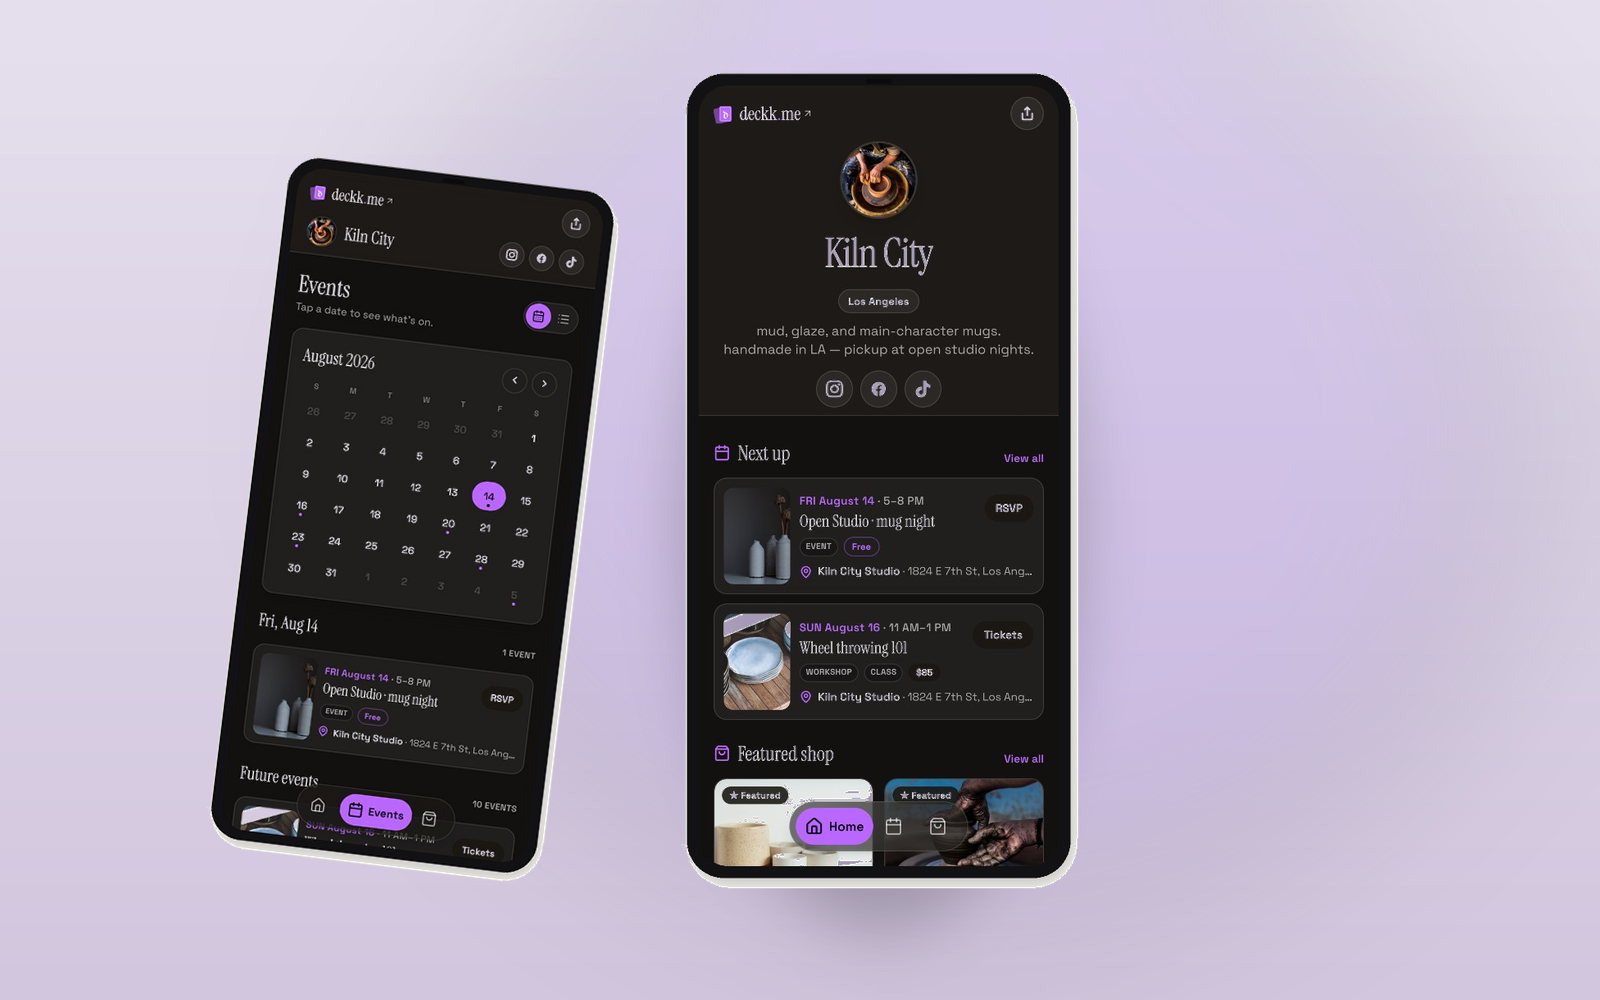
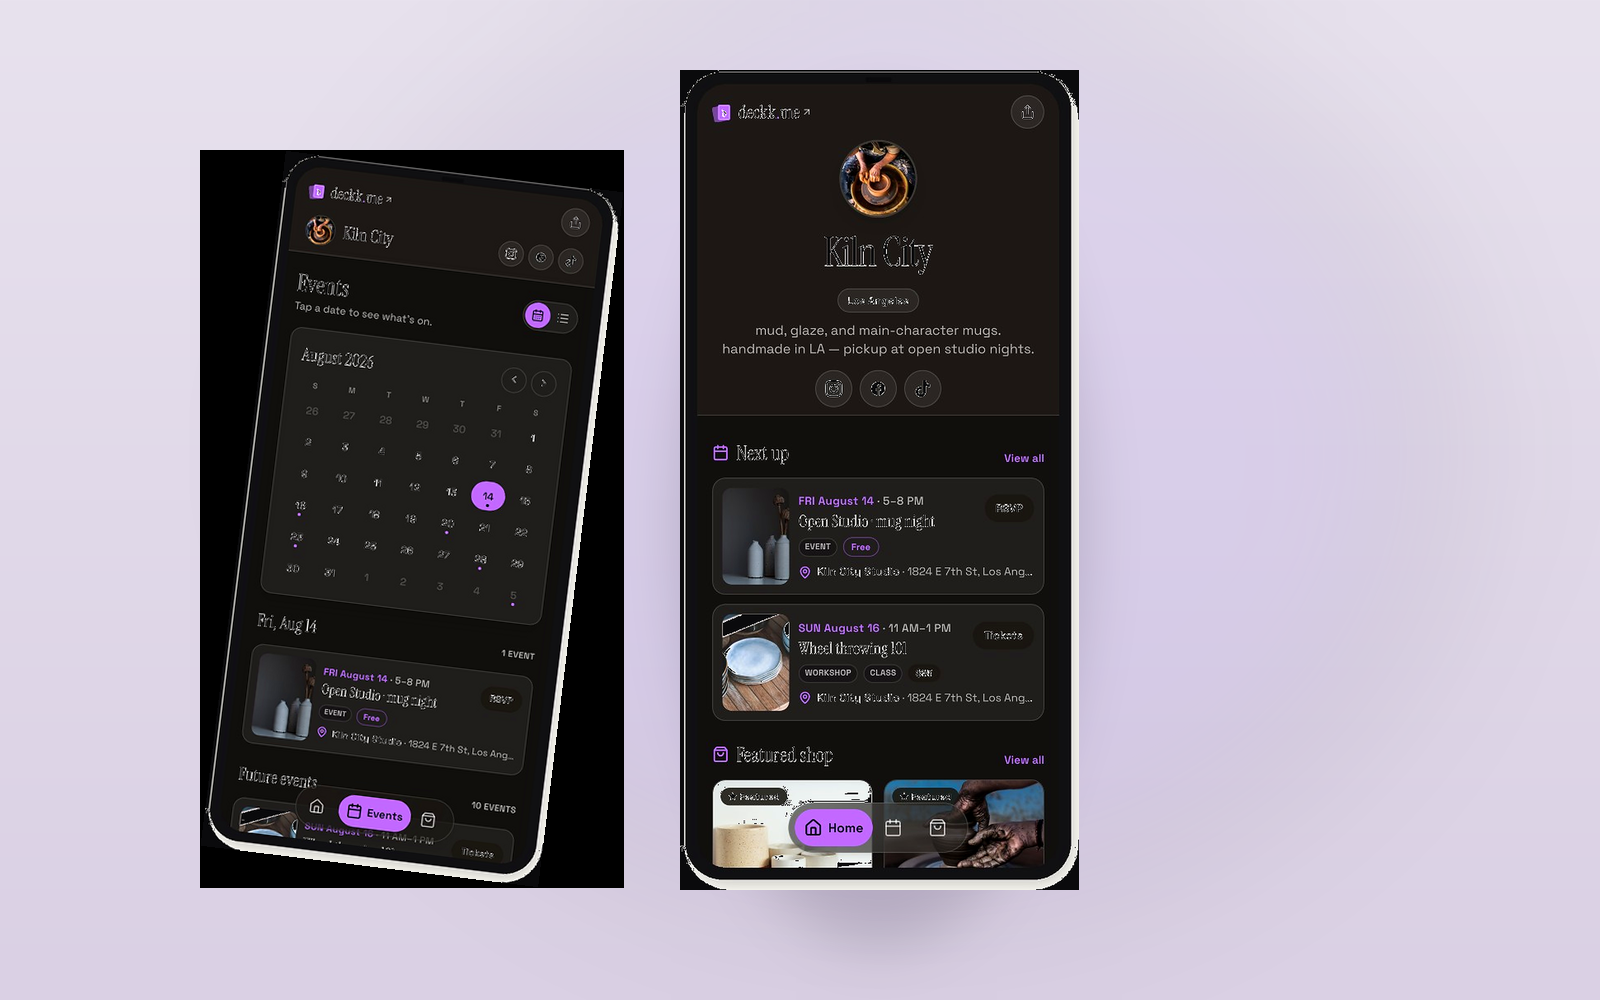
Sharpen Deckk device shots and stop CSS from softening them.
Upscale crops for retina, light unsharp, drop filter-based shadows, and freeze full opacity on hero phones.

diff --git a/case-study-deckk.html b/case-study-deckk.html
@@ -13,7 +13,7 @@
   <link rel="preconnect" href="https://fonts.gstatic.com" crossorigin>
   <link href="https://fonts.googleapis.com/css2?family=Instrument+Sans:ital,wght@0,400;0,500;0,600;0,700;1,400&family=IBM+Plex+Mono:wght@400;500&display=swap" rel="stylesheet">
   <link rel="stylesheet" href="ui-system.css?v=2">
-  <link rel="stylesheet" href="case-study.css?v=51">
+  <link rel="stylesheet" href="case-study.css?v=52">
 </head>
 <body class="case-study-body" data-cs-open="true">
 
@@ -91,10 +91,10 @@
             <div class="deckk-hero-showcase__glow" aria-hidden="true"></div>
             <div class="deckk-hero-showcase__stage">
               <figure class="deckk-hero-phone deckk-hero-phone--back">
-                <img src="deckk-kilncity-events.png?v=2" alt="Kiln City Events calendar on Deckk — August 2026 with Open Studio selected" width="513" height="1024" decoding="async">
+                <img src="deckk-kilncity-events.png?v=3" alt="Kiln City Events calendar on Deckk — August 2026 with Open Studio selected" width="513" height="1024" decoding="async">
               </figure>
               <figure class="deckk-hero-phone deckk-hero-phone--front">
-                <img src="deckk-kilncity-home.png?v=2" alt="Kiln City Home on Deckk — Next up events and featured shop" width="513" height="1024" decoding="async">
+                <img src="deckk-kilncity-home.png?v=3" alt="Kiln City Home on Deckk — Next up events and featured shop" width="513" height="1024" decoding="async">
               </figure>
             </div>
             <p class="deckk-hero-showcase__caption body-sm">Kiln City · public deck in dark mode — Home and Events</p>
@@ -232,13 +232,13 @@
               <figure class="phone-compare__item">
                 <figcaption class="phone-compare__label body-sm">Home · Next up + shop</figcaption>
                 <div class="deckk-device">
-                  <img src="deckk-kilncity-home.png?v=2" alt="Kiln City Home on Deckk with ranked Next up events and Featured shop" width="513" height="1024" loading="lazy" decoding="async">
+                  <img src="deckk-kilncity-home.png?v=3" alt="Kiln City Home on Deckk with ranked Next up events and Featured shop" width="513" height="1024" loading="lazy" decoding="async">
                 </div>
               </figure>
               <figure class="phone-compare__item">
                 <figcaption class="phone-compare__label body-sm">Events · calendar + day list</figcaption>
                 <div class="deckk-device">
-                  <img src="deckk-kilncity-events.png?v=2" alt="Kiln City Events calendar on Deckk with Open Studio mug night selected" width="513" height="1024" loading="lazy" decoding="async">
+                  <img src="deckk-kilncity-events.png?v=3" alt="Kiln City Events calendar on Deckk with Open Studio mug night selected" width="513" height="1024" loading="lazy" decoding="async">
                 </div>
               </figure>
             </div>

diff --git a/case-study.css b/case-study.css
@@ -2164,8 +2164,8 @@ body.case-study-body {
   padding: clamp(1.5rem, 4vw, 2.5rem) clamp(0.5rem, 2vw, 1rem) 1.25rem;
   border-radius: 0;
   background:
-    radial-gradient(ellipse 80% 70% at 55% 45%, rgba(140, 110, 220, 0.18), transparent 60%),
-    radial-gradient(ellipse 60% 50% at 20% 80%, rgba(180, 160, 210, 0.12), transparent 55%),
+    radial-gradient(ellipse 80% 70% at 55% 45%, rgba(140, 110, 220, 0.12), transparent 60%),
+    radial-gradient(ellipse 60% 50% at 20% 80%, rgba(180, 160, 210, 0.08), transparent 55%),
     linear-gradient(180deg, #e8e4ef 0%, #ddd7e8 48%, #d4cfe0 100%);
   overflow: visible;
   border: none;
@@ -2177,8 +2177,9 @@ body.case-study-body {
   position: absolute;
   inset: 10% 15% auto;
   height: 50%;
-  background: radial-gradient(ellipse at center, rgba(150, 120, 230, 0.16), transparent 70%);
+  background: radial-gradient(ellipse at center, rgba(150, 120, 230, 0.12), transparent 70%);
   filter: blur(12px);
+  z-index: 0;
 }
 
 .deckk-hero-showcase__stage {
@@ -2189,12 +2190,16 @@ body.case-study-body {
   align-items: flex-end;
   min-height: clamp(360px, 52vw, 520px);
   padding: 0.5rem 0 0.25rem;
+  isolation: isolate;
 }
 
 .deckk-hero-phone {
   margin: 0;
   line-height: 0;
-  filter: drop-shadow(0 22px 36px rgba(40, 30, 70, 0.22));
+  /* box-shadow not filter — filter blurs the phone bitmap */
+  box-shadow: 0 22px 40px rgba(40, 30, 70, 0.2);
+  border-radius: 14% / 7%;
+  background: #0c0c0e;
 }
 
 .deckk-hero-phone img {
@@ -2205,12 +2210,17 @@ body.case-study-body {
   border: none;
   background: transparent;
   box-shadow: none;
+  opacity: 1;
+  image-rendering: auto;
+  -webkit-backface-visibility: hidden;
+  backface-visibility: hidden;
+  transform: translateZ(0);
 }
 
 .deckk-hero-phone--back {
   width: min(240px, 34vw);
   transform: translate(18%, 4%) rotate(-9deg);
-  opacity: 0.96;
+  opacity: 1;
   z-index: 1;
 }
 
@@ -2299,10 +2309,13 @@ body.case-study-body {
 
 /* Deckk device shots already include a phone frame — no extra shell */
 .deckk-device {
-  width: min(100%, 280px);
+  width: min(100%, 300px);
   margin: 0 auto;
   line-height: 0;
-  filter: drop-shadow(0 18px 32px rgba(0, 0, 0, 0.16));
+  box-shadow: 0 16px 28px rgba(40, 30, 70, 0.16);
+  border-radius: 14% / 7%;
+  background: #0c0c0e;
+  overflow: hidden;
 }
 
 .deckk-device img {
@@ -2313,13 +2326,8 @@ body.case-study-body {
   border-radius: 0;
   background: transparent;
   box-shadow: none;
-}
-
-.deckk-hero-phone {
-  /* keep drop shadow only */
-}
-
-.deckk-hero-phone img {
-  outline: none;
-  box-shadow: none;
+  opacity: 1;
+  image-rendering: auto;
+  -webkit-backface-visibility: hidden;
+  backface-visibility: hidden;
 }

diff --git a/index.html b/index.html
@@ -314,7 +314,7 @@
           </div>
           <div class="glass-card project-card" data-case-study="case-study-deckk.html" data-work-categories="ai">
             <div class="project-media project-media--deckk">
-              <img src="deckk-case-thumb.png?v=3" alt="Kiln City Events on Deckk — dark mode public deck">
+              <img src="deckk-case-thumb.png?v=4" alt="Kiln City Events on Deckk — dark mode public deck">
             </div>
             <div class="project-meta">
               <h3 class="project-title">Deckk: Reimagining the Link-in-Bio with AI</h3>
